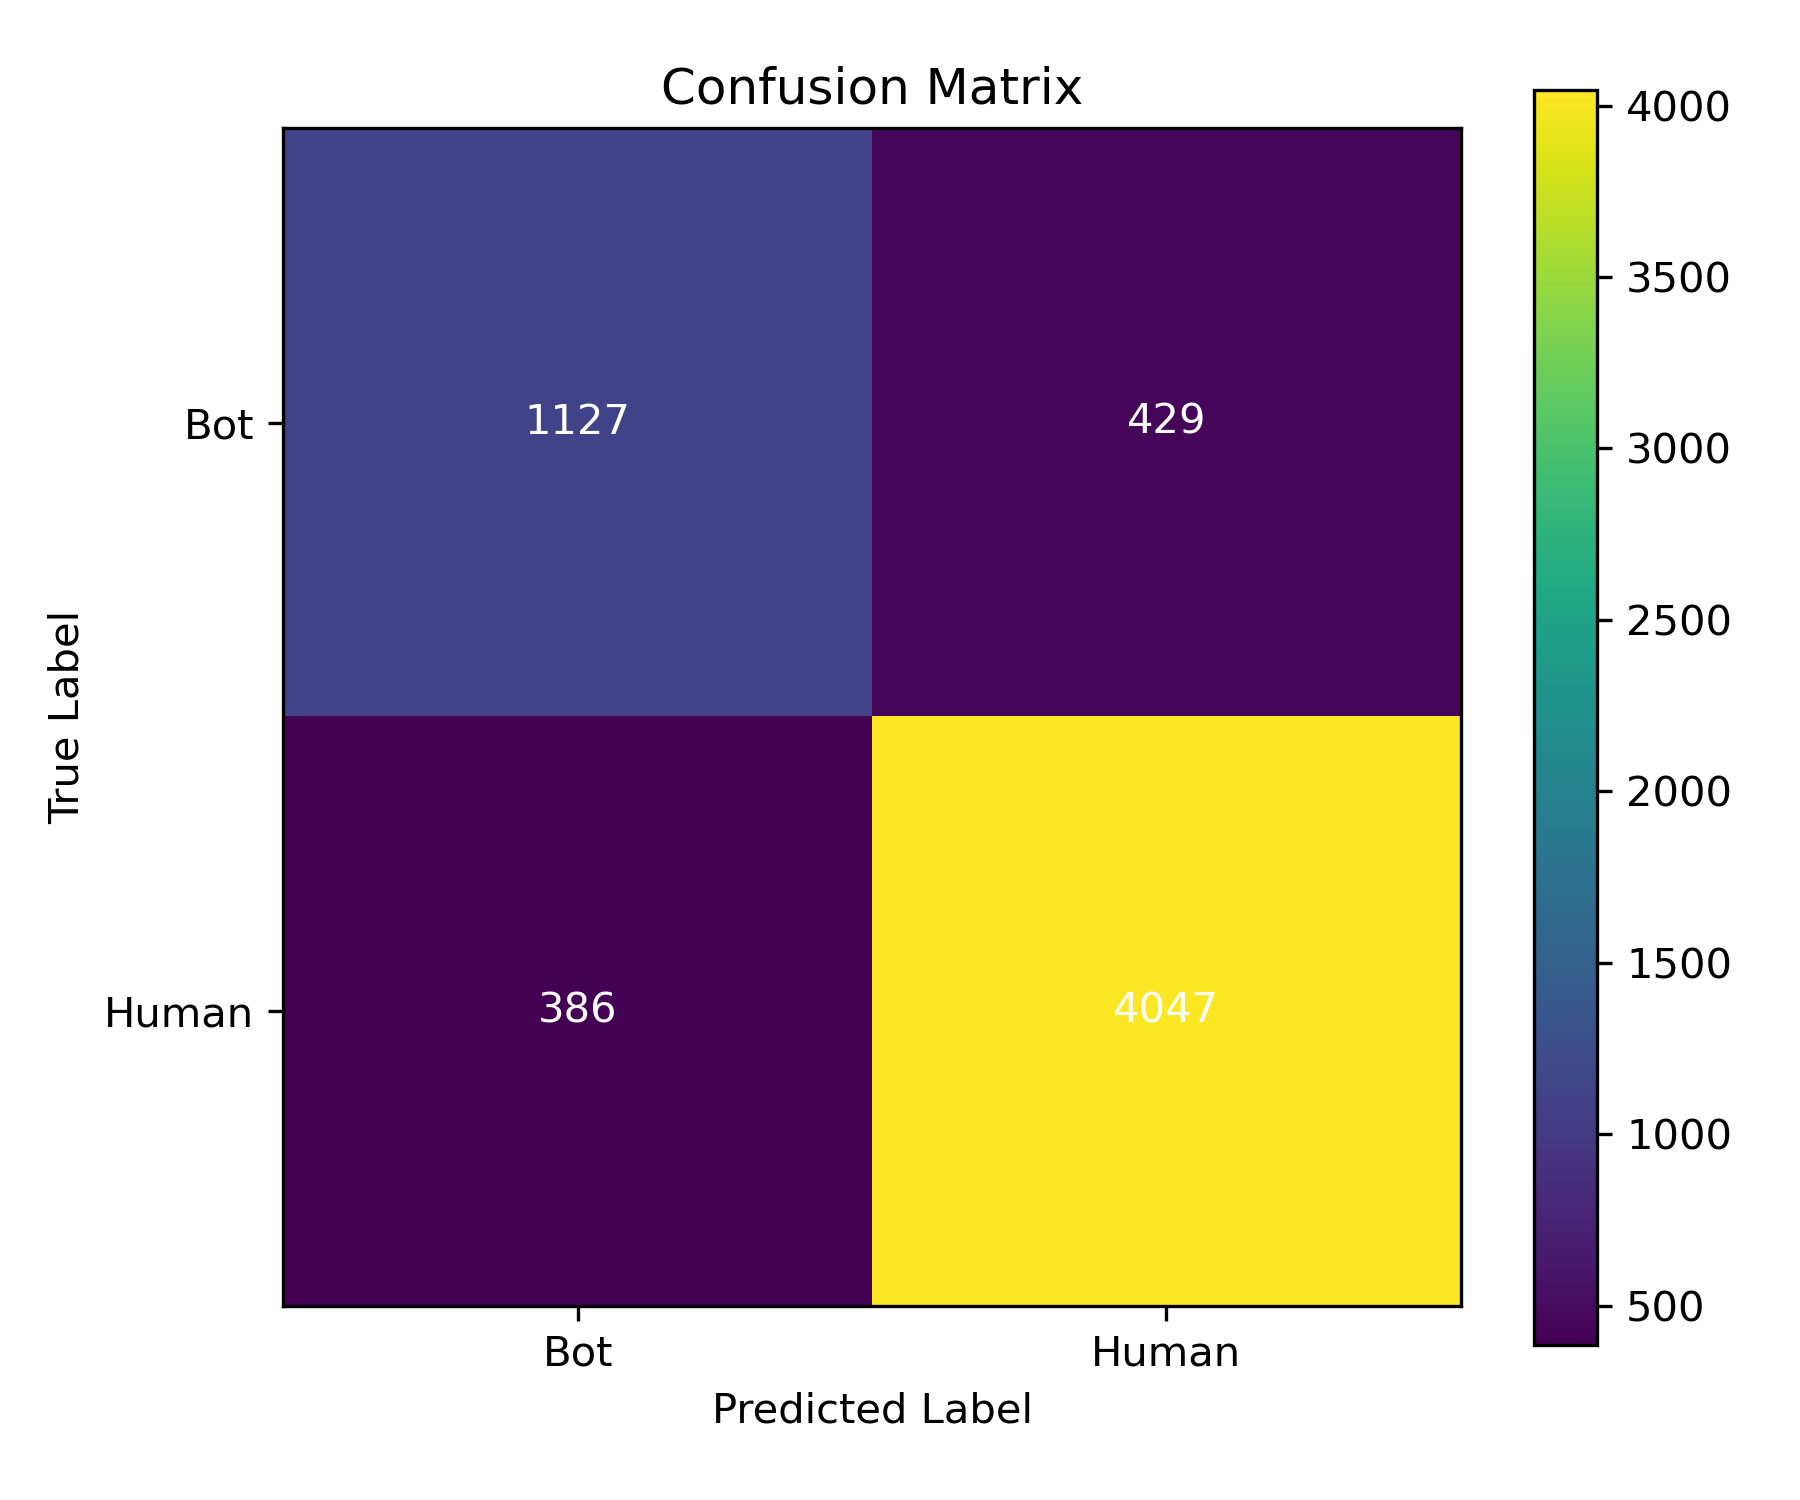
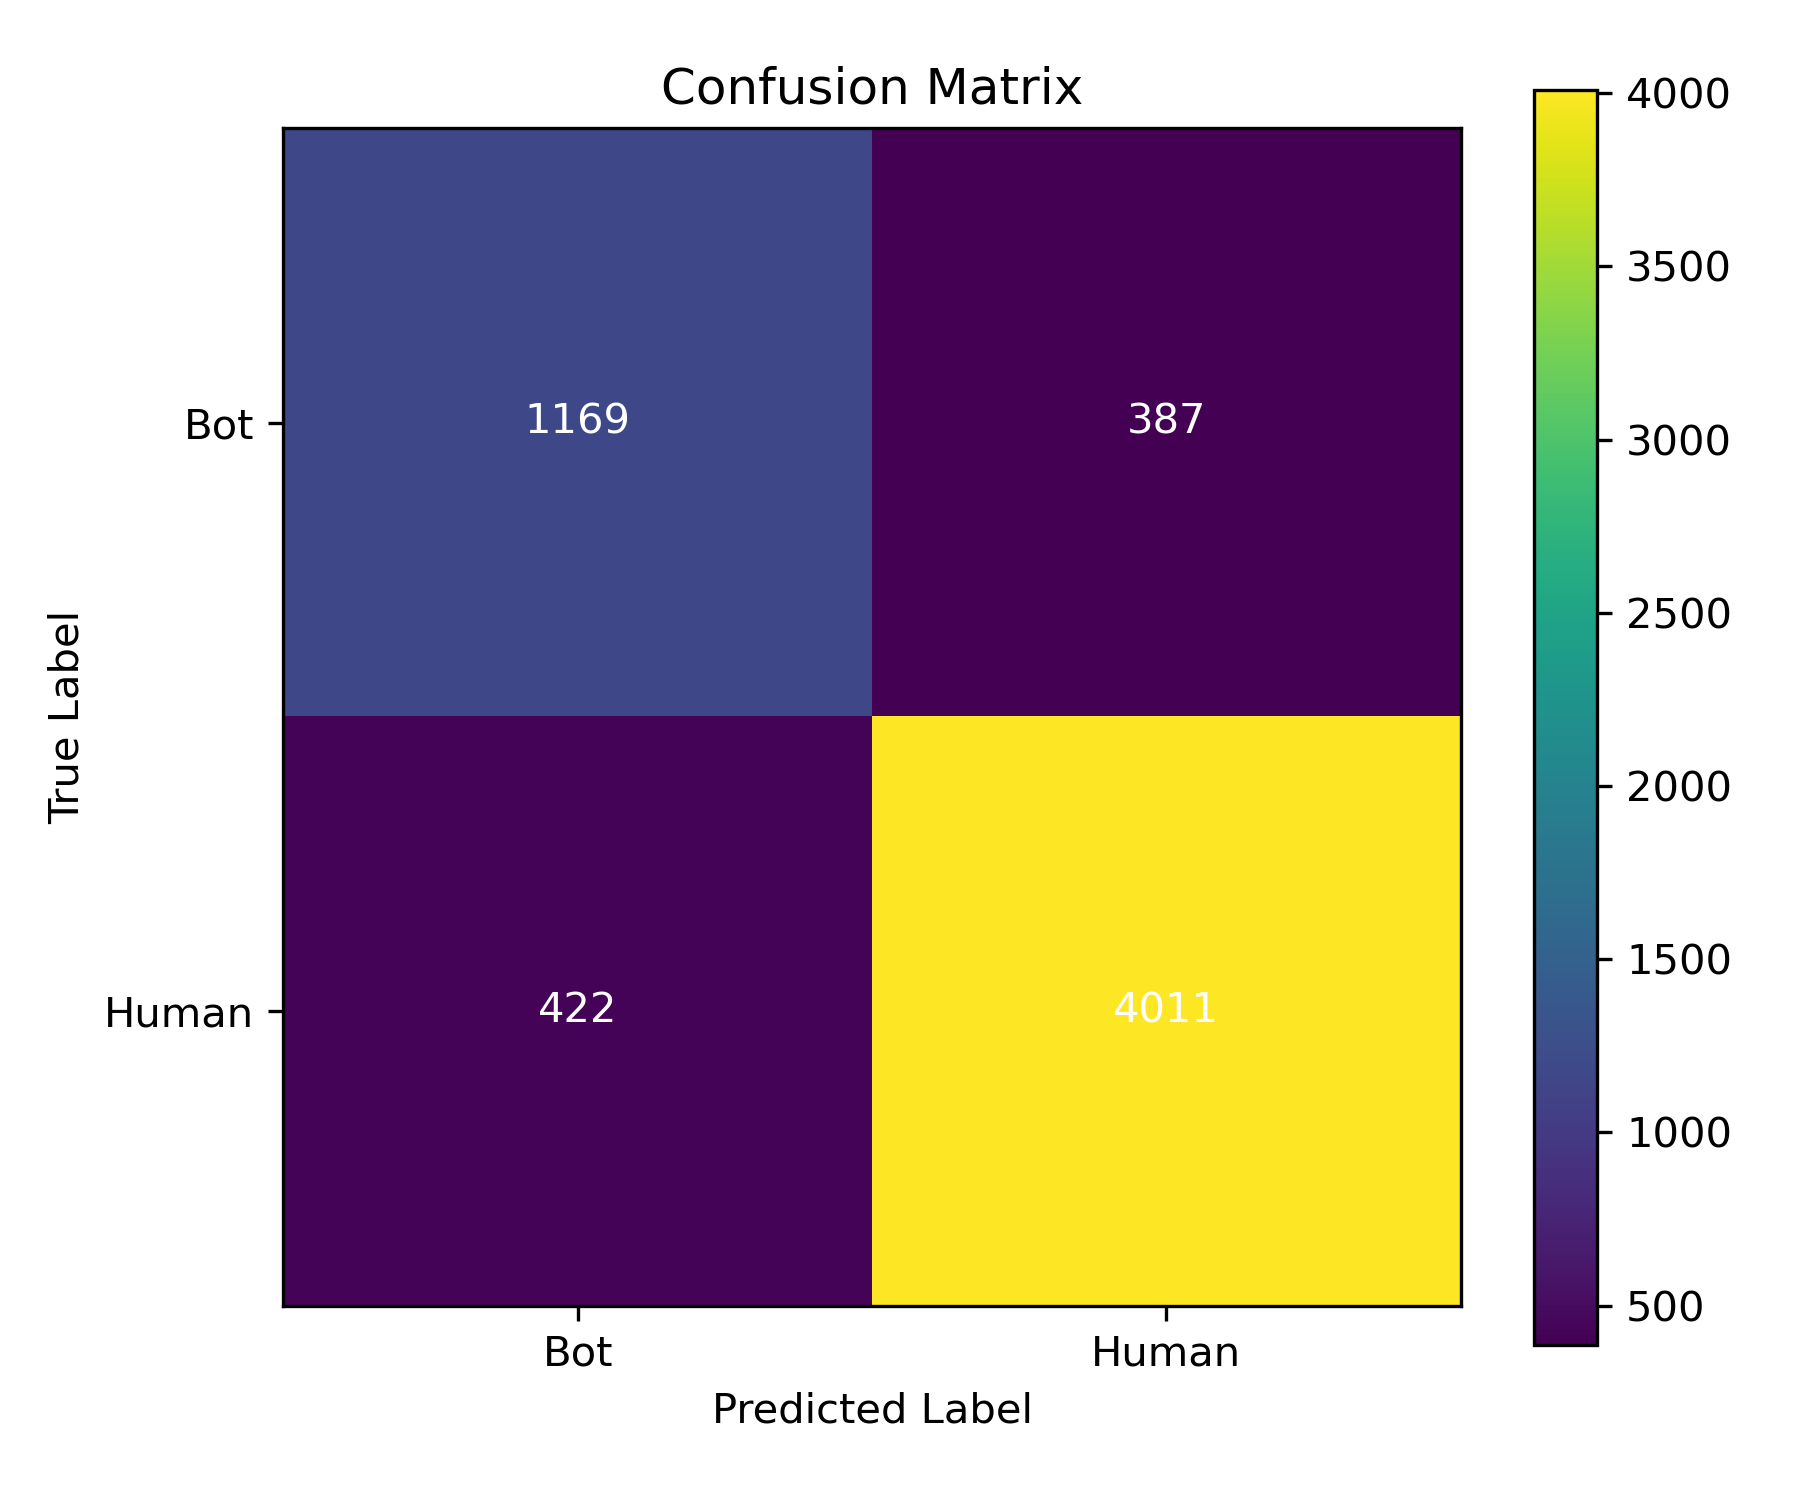
Replacing nltk's TweetTokenizer with PySpark RegexTokenizer equivalent + added saving and loading trained LR model + Removing excess files + Directory restructuring

diff --git a/pipeline/pipeline.py b/pipeline/pipeline.py
@@ -8,11 +8,13 @@ from pyspark.sql.functions import map_from_arrays, array, lit, explode, col, whe
 from pyspark.ml.feature import CountVectorizer, IDF, StopWordsRemover
 from pyspark.ml.classification import LogisticRegression
 from pyspark.ml import Pipeline
-from sparkapp.tweet_tokenizer import TweetTokenizerTransformer
+from pyspark.ml.feature import RegexTokenizer
 from sklearn.metrics import confusion_matrix, accuracy_score, precision_score, recall_score
 import matplotlib.pyplot as plt
 import numpy as np
 import emoji
+
+TWEET_REGEX = r"(?:@[\w_]+)|(?:\#[\w_]+)|(?:https?://\S+)|(?:\w+(?:'\w+)?)|(?:[^\w\s])"
 
 def preprocess_data(spark: SparkSession, input_json):
     '''
@@ -64,13 +66,15 @@ def preprocess_data(spark: SparkSession, input_json):
 def train_pipeline(spark, df_training):
 
     # First, tokenize to seperate string into list of semantic units
-    # TweetTokenizer pays attention to text such as emoticons and arrows, and combines them into a single unit.
-    tweet_tokenizer = TweetTokenizerTransformer(inputCol="text", outputCol="tokens_no_punc")
+    # RegexTokenizer aims to replicate nltk's TweetTokenizer by keeping @mentions, URL's, hashtags and emojis together
+    # It differs in its inability to shorten elongated words (i.e. sooooo -> so) and preserve text-based emoticons [i.e. :-)]
+    regex_tokenizer = RegexTokenizer(inputCol="text", outputCol="tokens", 
+                                     pattern=TWEET_REGEX, gaps=False, toLowercase=True)
 
     #Removing stopwords
     # Stopwords = common words which don't denote meaning (i.e. a, the, is)
     # Removing these tokens may boost model performance
-    remover = StopWordsRemover(inputCol="tokens_no_punc", outputCol="tokens_no_stops")
+    remover = StopWordsRemover(inputCol="tokens", outputCol="tokens_no_stops")
 
     # Convert tokens w/o stopwords to Term Frequency Vector -> Inverse Doc Frequency Vector
     cv = CountVectorizer(inputCol="tokens_no_stops", outputCol="raw_count")
@@ -78,7 +82,7 @@ def train_pipeline(spark, df_training):
     lr = LogisticRegression(featuresCol="idf_features", labelCol="label")
 
     # Pipeline runs all of the stages inputted in sequence, which processes input string, then inputs it into our model.
-    pipeline = Pipeline(stages=[tweet_tokenizer, remover, cv, idf, lr])
+    pipeline = Pipeline(stages=[regex_tokenizer, remover, cv, idf, lr])
 
     # Training our pipeline model
     # StopWordsRemover is a Transformer, so it doesn't change as a result of training, it always removes a static set of stopwords.

diff --git a/pipeline/run_model_pipeline.py b/pipeline/run_model_pipeline.py
@@ -3,8 +3,10 @@ Runs pipeline on our entire dataset
 For: Ryan <3
 '''
 
-import sparkapp.pipeline as pipeline
+import os
+from pyspark.ml import PipelineModel
 from pyspark.sql.session import SparkSession
+import pipeline
 
 spark = SparkSession.builder \
     .appName("BotClassifier") \
@@ -14,12 +16,20 @@ spark = SparkSession.builder \
 
 # Data is taken from json file generated from data_preprocessing.ipynb, tweets_with_labels.json
 data = "data/tweets_with_labels.json"
-save_model_path = "bot_classification_model"
+save_model_path = "pipeline_model"
+if not os.path.exists(save_model_path):
+    os.makedirs(save_model_path)
 
 df_train, df_test = pipeline.preprocess_data(spark, data)
 
-model = pipeline.train_pipeline(spark, df_train)
-model.write().overwrite().save(save_model_path)
+if os.path.exists(save_model_path) and os.listdir(save_model_path):
+    print("\nLoading Model...")
+    model = PipelineModel.load(save_model_path)
+else:
+    print("\nTraining New Model...")
+    model = pipeline.train_pipeline(spark, df_train)
+    model.write().overwrite().save(save_model_path)
+    print("\nModel saved at: ", save_model_path)
 
 output = pipeline.inference_pipeline(spark, model, df_test)
 metrics = pipeline.calculate_metrics(output, model, labels=["Human", "Bot"])

diff --git a/pipeline/run_test_pipeline.py b/pipeline/run_test_pipeline.py
@@ -3,7 +3,7 @@ Runs pipeline on a very small subset of our dataset
 '''
 
 import string
-import sparkapp.pipeline as pipeline
+import pipeline
 from pyspark.sql.session import SparkSession
 import json
 
